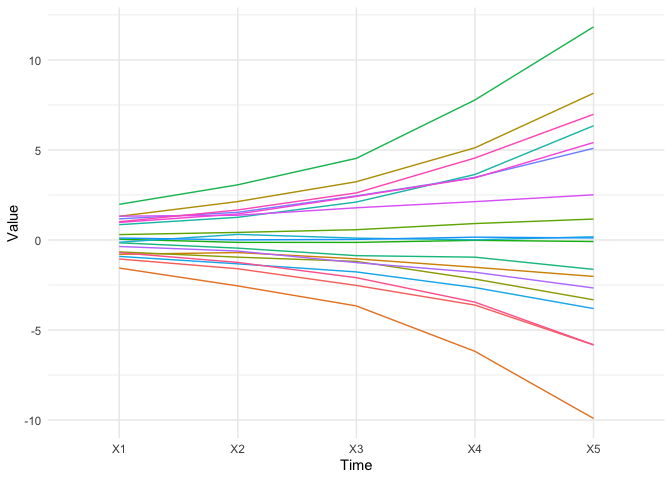
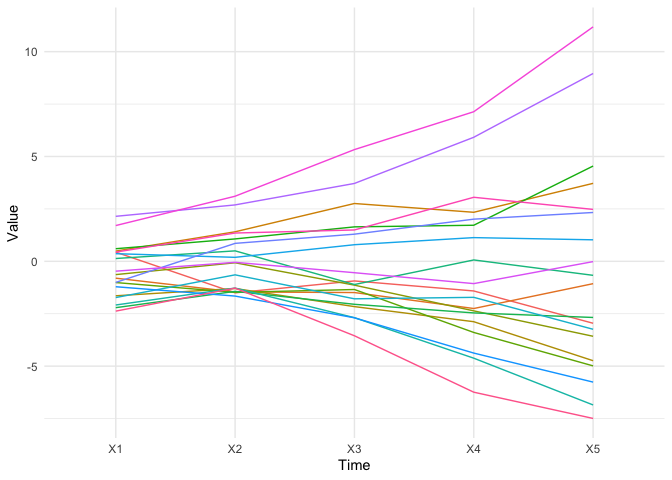
updated params once more

diff --git a/README.md b/README.md
@@ -47,7 +47,7 @@ Simulate 100 cases from a RELCS model:
 
     simulated_data <- simulateDataFromRELCS(N = 100, 
                                             num.obs = 5, 
-                                            residualerrorvariance = .01,
+                                            residualerrorvariance = .3,
                                             selffeedback.mean = .5,
                                             selffeedback.variance = .01,
                                             interceptmu = 0,
@@ -80,22 +80,22 @@ Plot the first 20 simulated trajectories:
     #> 3 chains, each with iter=600; warmup=200; thin=1; 
     #> post-warmup draws per chain=400, total post-warmup draws=1200.
     #> 
-    #>                 mean se_mean     sd    2.5%     25%    50%    75%   97.5% n_eff
-    #> residual_var    0.29    0.17   0.21    0.01    0.01   0.37   0.47    0.56     2
-    #> self_fb_mu      0.40    0.08   0.12    0.18    0.31   0.41   0.52    0.54     2
-    #> self_fb_var     0.36    0.23   0.29    0.01    0.01   0.37   0.59    0.90     2
-    #> intercept_mu   -0.01    0.01   0.10   -0.21   -0.07   0.00   0.06    0.19   113
-    #> intercept_var   0.90    0.00   0.13    0.66    0.81   0.90   0.99    1.19   884
-    #> lp__          266.76  422.47 517.85 -173.02 -144.81 -42.08 987.94 1012.65     2
-    #>                Rhat
-    #> residual_var   7.28
-    #> self_fb_mu     1.97
-    #> self_fb_var    3.40
-    #> intercept_mu   1.03
-    #> intercept_var  1.01
-    #> lp__          45.62
+    #>                 mean se_mean    sd   2.5%    25%    50%    75%  97.5% n_eff
+    #> residual_var    0.31    0.00  0.02   0.26   0.29   0.31   0.32   0.36   773
+    #> self_fb_mu      0.47    0.00  0.02   0.43   0.46   0.47   0.48   0.51   716
+    #> self_fb_var     0.02    0.00  0.01   0.01   0.01   0.01   0.02   0.03   301
+    #> intercept_mu   -0.02    0.00  0.11  -0.24  -0.09  -0.02   0.05   0.19  1991
+    #> intercept_var   1.19    0.00  0.18   0.88   1.06   1.18   1.30   1.57  1440
+    #> lp__          146.10    0.94 15.57 115.61 135.77 146.27 156.99 175.49   274
+    #>               Rhat
+    #> residual_var  1.00
+    #> self_fb_mu    1.00
+    #> self_fb_var   1.00
+    #> intercept_mu  1.00
+    #> intercept_var 1.00
+    #> lp__          1.01
     #> 
-    #> Samples were drawn using NUTS(diag_e) at Thu Mar 25 20:53:24 2021.
+    #> Samples were drawn using NUTS(diag_e) at Thu Mar 25 20:58:47 2021.
     #> For each parameter, n_eff is a crude measure of effective sample size,
     #> and Rhat is the potential scale reduction factor on split chains (at 
     #> convergence, Rhat=1).
@@ -118,7 +118,7 @@ Get the beta values from the model and obtain summary.
     betas <- get_beta_estimates(fit_with_beta)
     summary(betas)
     #>    Min. 1st Qu.  Median    Mean 3rd Qu.    Max. 
-    #> -1.1211  0.3450  0.4962  0.4081  0.5780  0.8116
+    #> -1.1540  0.3194  0.4504  0.4202  0.5352  0.7139
     hist(betas)
 
 ![](README_files/figure-markdown_strict/unnamed-chunk-9-1.png)
